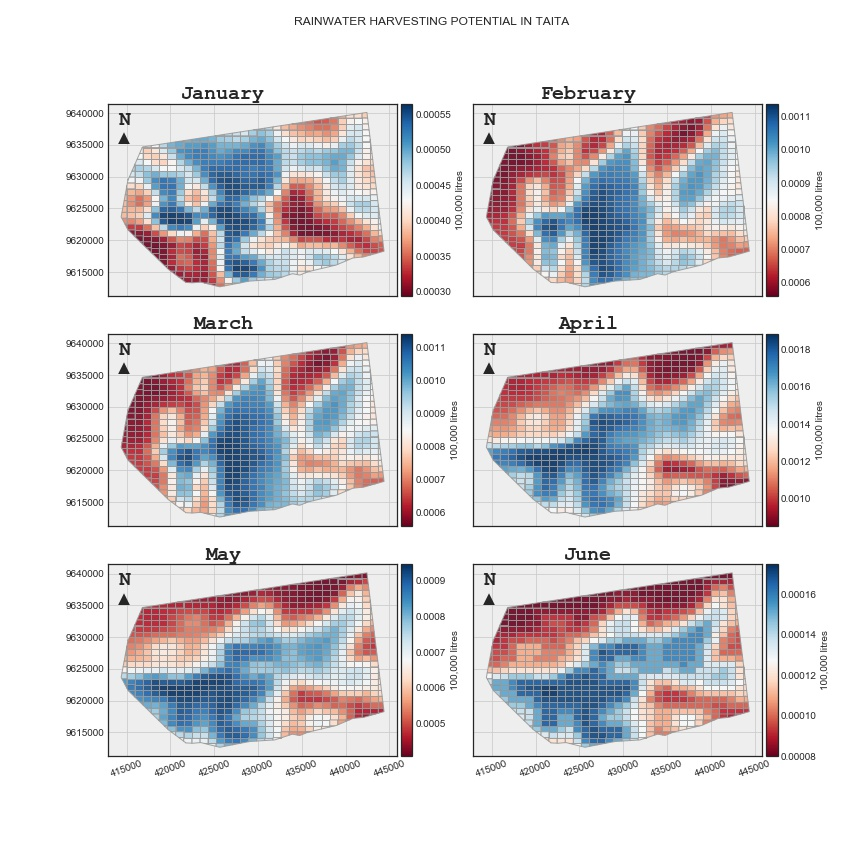
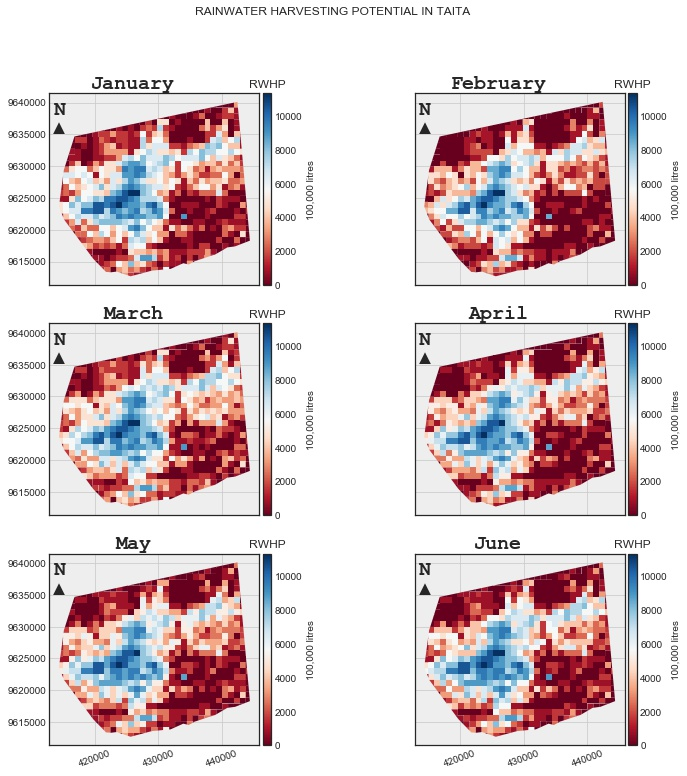
using natural break classifer

diff --git a/thesis/analysis.py b/thesis/analysis.py
@@ -11,6 +11,9 @@ import os
 import calendar
 import re
 from mpl_toolkits.axes_grid1 import make_axes_locatable
+from shapely import speedups
+speedups.available
+speedups.enable()
 
 import clip_raster as ras
 
@@ -360,7 +363,8 @@ def colorbar(ax, vmin, vmax):
     sm._A = []
     cbar=fig.colorbar(sm, cax=cax)
     cbar.set_label('100,000 litres')
-
+    cbar.ax.set_title('RWHP')
+import pysal as ps
 
 def find_month(column_name):
   month_list = ['January', 'February', 'March', 'April', 'May', 'June', 'July',
@@ -372,16 +376,32 @@ def find_month(column_name):
   return ' '.join(month)
 
 
+month_list = ['January', 'February', 'March', 'April', 'May', 'June', 'July',
+              'August', 'September', 'October', 'November', 'December']
+rain_pot_list = list(map(lambda x: x[:3] + '_rainPOT', month_list))
+rain_list =list(map(lambda x: x[:3] + '_rain', month_list))
+
+
+#classifier = ps.Natural_Breaks.make(k=150)
+#dataFrame[rain_pot_list] = dataFrame[rain_pot_list].apply(classifier)
+#
+#mode_classif.columns = [ rain_pot_list + '_class']
+  
 def plot_map(dataFrame,  column_list):
   fig, axes = plt.subplots(3, 2, figsize=(12,12), sharex=True, sharey=True)
-  
+  classied_df = dataFrame.copy()
+  classifier = ps.Natural_Breaks.make(k=15)
+  classied_df[rain_pot_list] = classied_df[rain_pot_list].apply(classifier)
   for ax, column in zip(axes.flatten(), column_list):
+    #Join the classes back to the main data.
     month = find_month(column)
     print(month)
-    vmin, vmax = dataFrame[column].min(), dataFrame[column].max()
-    map_plot=dataFrame.plot(ax=ax, column=column,cmap="RdBu", scheme="quantiles", k=100, alpha=0.9,edgecolor='0.6')
+#    vmin, vmax = dataFrame[column].min(), dataFrame[column].max()
+    vmin, vmax = dataFrame[rain_pot_list].min().min(), dataFrame[rain_pot_list].max().max()
+    map_plot=classied_df.plot(ax=ax, column=column , cmap='RdBu')
     ax.grid()
     fig.suptitle('RAINWATER HARVESTING POTENTIAL IN TAITA')
+    ax.set_aspect('equal')
     
     # Rotate the x-axis labels so they don't overlap
     plt.setp(ax.xaxis.get_majorticklabels(), rotation=20)  
@@ -393,22 +413,114 @@ def plot_map(dataFrame,  column_list):
     map_plot.text(x=minx+1000,y=maxy-5000, s=u'N \n\u25B2 ', ha='center', fontsize=20, weight='bold', family='Courier new', rotation = 0)
     map_plot.text(x=426000,y=maxy+2100, s=month,  ha='center', fontsize=20, weight='bold', family='Courier new', bbox=props)
     plt.setp(ax.xaxis.get_majorticklabels(), rotation=20)
-    colorbar(map_plot, vmin/100000, vmax/100000)
+    colorbar(map_plot, vmin/1000, vmax/1000)
   #    plt.tight_layout()
-    plt.savefig(r'C:\Users\oyeda\Desktop\msc\test.jpg')
+    plt.savefig(r'C:\Users\oyeda\Desktop\msc\test.jpg', bbox_inches='tight', pad_inches=0.1)
 
 
 #pot_list = [pot for pot in buildings_rain_aggr.columns if pot.endswith('rainPOT') and pot != 'ann_rainPOT']
 
 
-month_list = ['January', 'February', 'March', 'April', 'May', 'June', 'July',
-              'August', 'September', 'October', 'November', 'December']
-rain_pot_list = list(map(lambda x: x[:3] + '_rainPOT', month_list))
-rain_list =list(map(lambda x: x[:3] + '_rain', month_list))
-plot_map(buildings_rain_aggr, rain_list)
+#plot_map(buildings_rain_aggr, rain_list)
 plot_map(buildings_rain_aggr, rain_pot_list)
 # =============================================================================
 # 
 # =============================================================================
 
 
+
+
+
+
+    #Rename the columns of our classified columns.
+
+# =============================================================================
+# 
+# 
+# aa= buildings_rain_aggr.copy()
+# aa[rain_pot_list].min(axis=0).min()
+# aa[rain_pot_list].max(axis=0).max()
+# #aa=aa.loc[aa['Sep_rainPOT']>0]
+# classifier = ps.Natural_Breaks.make(k=100)
+# aa[rain_pot_list] = aa[rain_pot_list].apply(classifier)
+# aa.plot(column='Jun_rainPOT', cmap='RdBu', scheme='equal_interval', k=20)
+# aa.plot(column='Apr_rainPOT', cmap='RdBu',scheme='equal_interval', k=20)
+# aa.plot(column='Nov_rainPOT', cmap='RdBu',scheme='equal_interval', k=20)
+# aa.plot(column='Sep_rainPOT', cmap='RdBu',scheme='equal_interval', k=20)
+# =============================================================================
+# =============================================================================
+# 
+# merged_metro['label_' + tt_col ] = mode_classif
+#         
+# 
+# 
+# 
+# my_map = merged_metro.plot(column=tt_col, linewidth=0.02, legend=True, cmap="RdYlGn", scheme=class_type, k=n_classes, alpha=0.9)
+# # =============================================================================
+# #  
+# =============================================================================
+# 
+# 
+# if class_type == "Natural_Breaks":
+#         classifier = ps.Natural_Breaks.make(k=n_classes)
+#     elif class_type == "Equal_Interval":
+#         classifier = ps.Equal_Interval.make(k=n_classes)
+#     elif class_type == "Box_Plot":
+#         classifier = ps.Box_Plot.make(hinge)
+#     elif class_type == "Fisher_Jenks":
+#         classifier = ps.Fisher_Jenks.make(k=n_classes)
+# #                elif class_type == "Fisher_Jenks_Sampled":
+# #                    classifier = ps.Fisher_Jenks_Sampled.make(k=n_classes, pct=0.1)
+#     elif class_type == "HeadTail_Breaks":
+#         classifier = ps.HeadTail_Breaks.make(k=n_classes)
+#     elif class_type == "Jenks_Caspall":
+#         classifier = ps.Jenks_Caspall.make(k=n_classes)
+#     elif class_type == "Jenks_Caspall_Forced":
+#         classifier = ps.Jenks_Caspall_Forced.make(k=n_classes)
+#     elif class_type == "Quantiles":
+#         classifier = ps.Quantiles.make(k=n_classes)
+#     elif class_type == "Percentiles":
+#         classifier = ps.Percentiles.make(pct_classes)
+#     elif class_type == "Std_Mean":
+#         classifier = ps.Std_Mean.make(multiples)
+#     mode_classif = merged_metro[[tt_col]].apply(classifier)
+#    
+#     
+#     #Rename the columns of our classified columns.
+#     mode_classif.columns = [tt_col+"_ud"]
+#     
+#     
+#     #Join the classes back to the main data.
+#     merged_metro = merged_metro.join(mode_classif)
+#     
+#         
+#     merged_metro['label_' + tt_col ] = mode_classif
+#         
+#     
+# 
+# elif classification == "User_Defined":
+#      #Next, we want to classify the travel times with 5 minute intervals until 200 minutes.
+# 
+#     #Let’s create a list of values where minumum value is 5, maximum value is 200 and step is 5.
+#     breaks = [x for x in range(class_lower_limit, class_upper_limit, class_step)]
+#     #Now we can create a pysal User_Defined classifier and classify our travel time values.
+# 
+#     classifier = ps.User_Defined.make(bins=breaks)
+# 
+#     #walk_classif = data[['walk_t']].apply(classifier)
+#     
+#     mode_classif = merged_metro[[tt_col]].apply(classifier)
+#     
+#     
+#     #Rename the columns of our classified columns.
+#     mode_classif.columns = [tt_col+"_ud"]
+#     #walk_classif.columns = ['walk_t_ud']
+#     
+#     #Join the classes back to the main data.
+#     merged_metro = merged_metro.join(mode_classif)
+# 
+# 
+# 
+# my_map = merged_metro.plot(column=tt_col, linewidth=0.02, legend=True, cmap="RdYlGn", scheme=class_type, k=n_classes, alpha=0.9)
+#                         
+# =============================================================================
